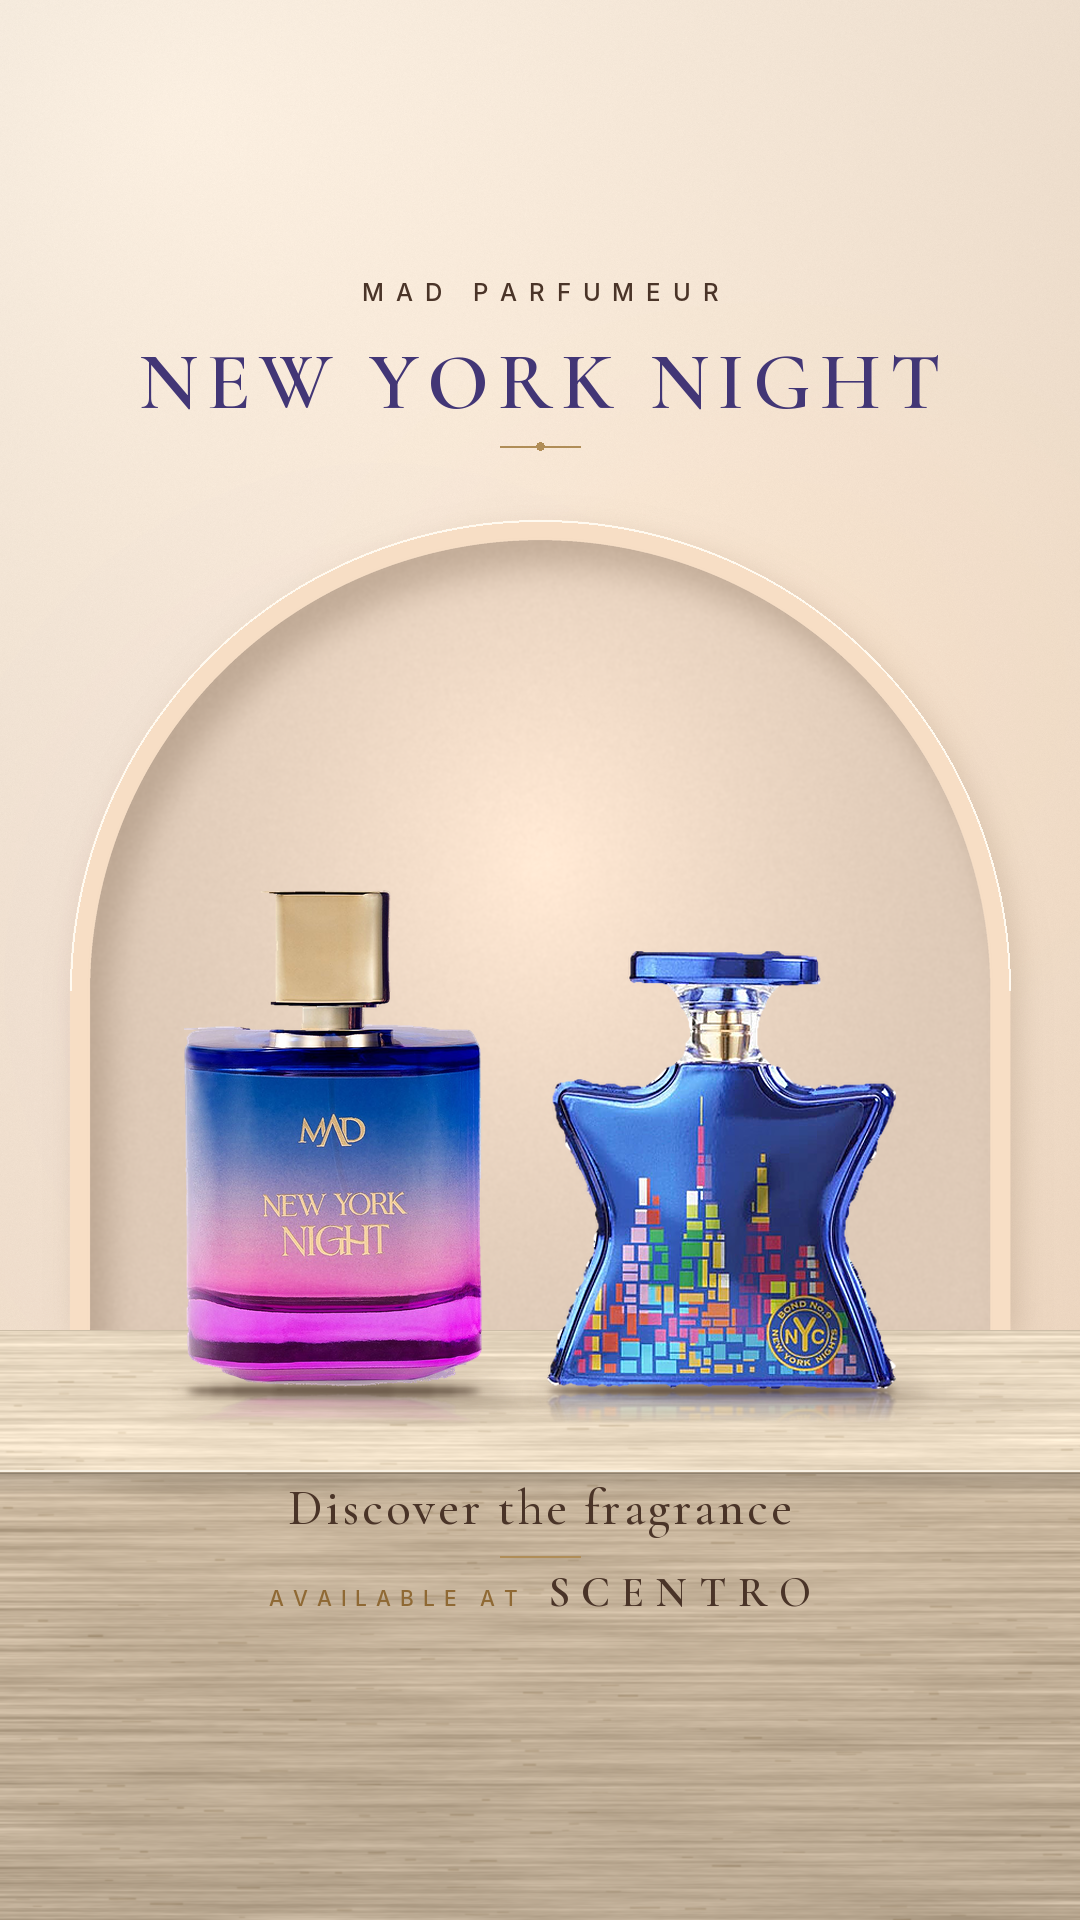
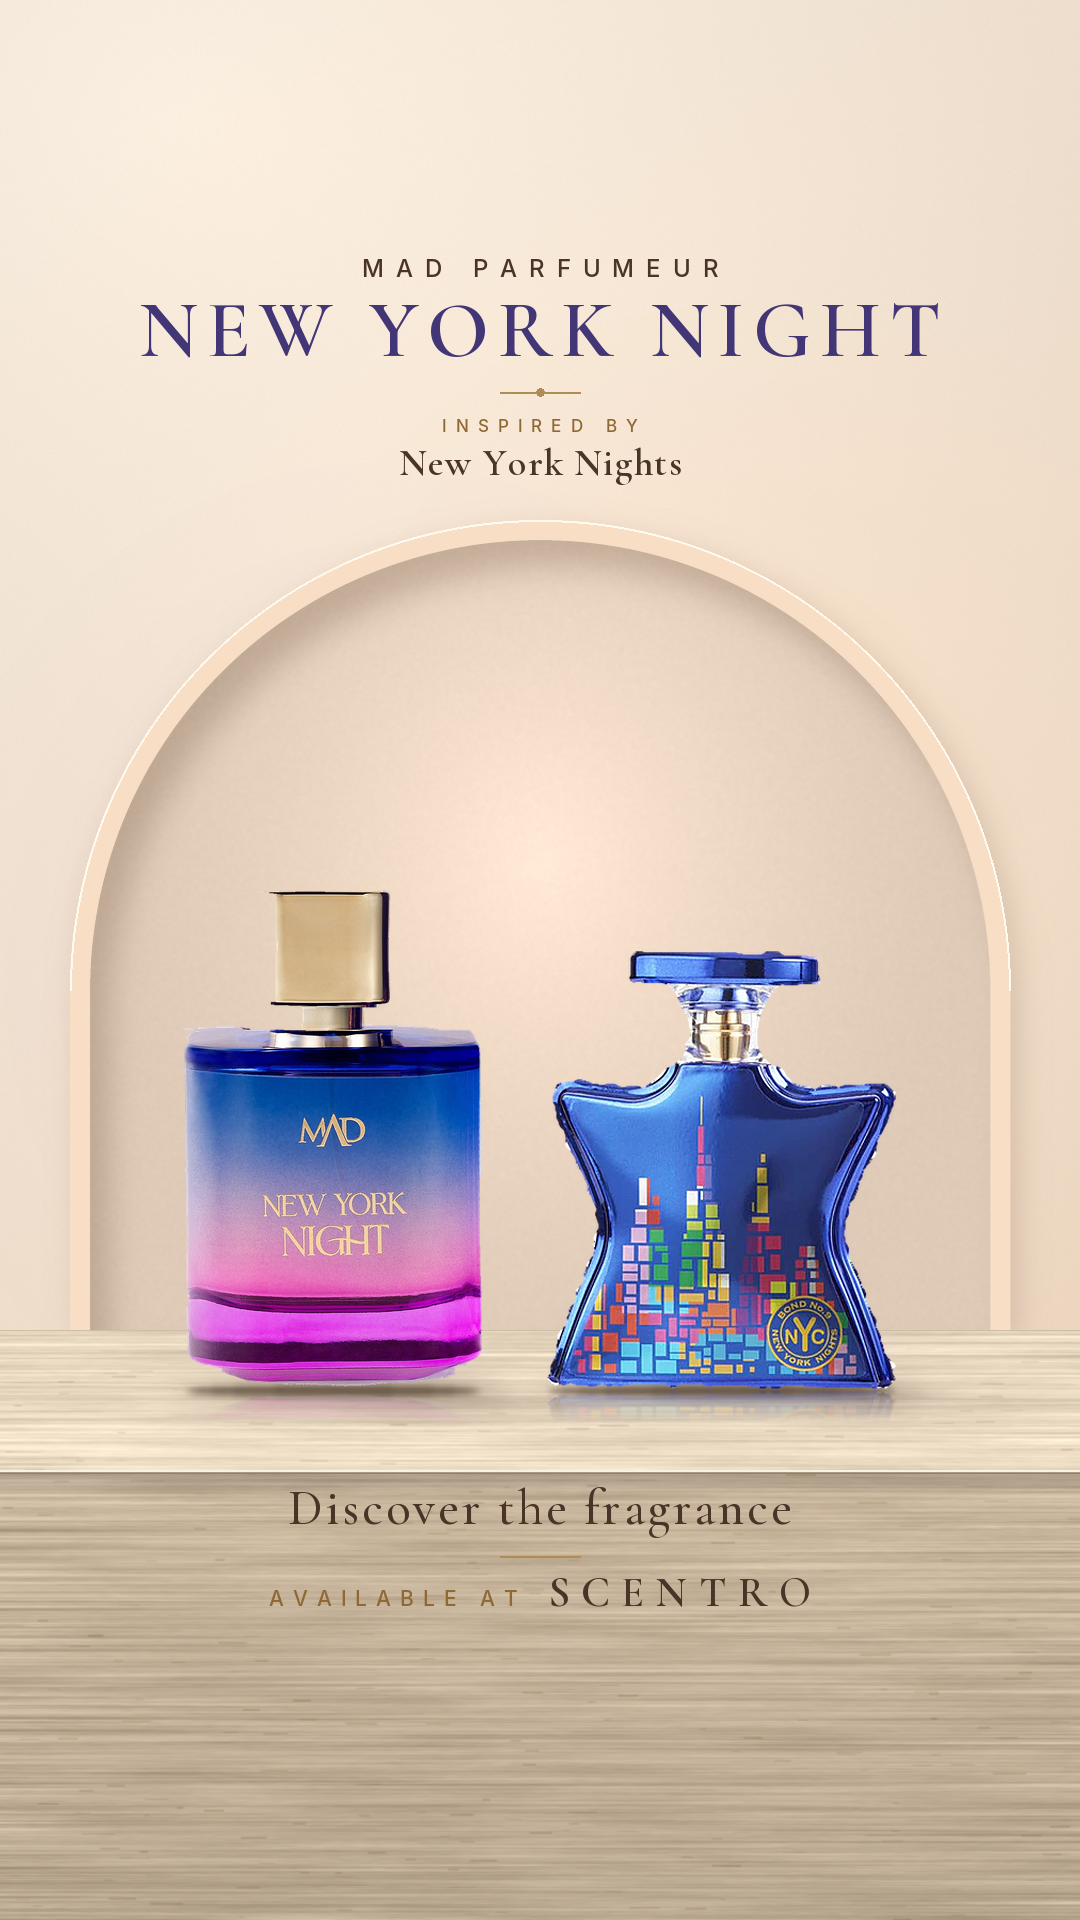
Stories: add 'INSPIRED BY' + original fragrance name (New York Nights / Rouge Malachite), no house names
Claude-Session: https://claude.ai/code/session_01UApyk7Kdwc7MEVpfJtnJsr

Changed region(s): [[0.3361, 0.125, 0.8556, 0.25], [0.1222, 0.1562, 0.3056, 0.2188]]

diff --git a/scentro/stories/build_stories.py b/scentro/stories/build_stories.py
@@ -212,7 +212,7 @@ def prep_nyn_bottle():
     Image.fromarray(bt).save('/tmp/_nyn_bottle.png'); return '/tmp/_nyn_bottle.png'
 
 
-def duo_story(label, mad, mad_h, orig, orig_h, pal, title, title_max, subtitle=None, tagline='Discover the fragrance'):
+def duo_story(label, mad, mad_h, orig, orig_h, pal, title, title_max, inspired, subtitle=None, tagline='Discover the fragrance'):
     canvas(arch_top=520, arch_r=470, surf_top=1330, surf_front=1470, base_y=1390)
     s = dict(bg_a=pal['bg_a'], bg_b=pal['bg_b'], niche_rgb=pal['niche'], stone=pal['stone'])
     img = B.background(s)
@@ -224,28 +224,33 @@ def duo_story(label, mad, mad_h, orig, orig_h, pal, title, title_max, subtitle=N
     left = 540 - (b1.width + gap + b2.width) / 2
     B.stage_bottle(img, b1, left + b1.width / 2, B.BASE_Y); B.stage_bottle(img, b2, left + b1.width + gap + b2.width / 2, B.BASE_Y)
     d = ImageDraw.Draw(img); brown, gold = (74, 52, 40), (176, 141, 87)
-    tracked_in(d, 540, 292, 'MAD PARFUMEUR', B.font(INTER_M, 24), brown, 12)
-    tf, size = B.fit_width(d, title, CORM, 'SemiBold', 104, title_max, track_ratio=.11)
-    tracked_in(d, 540, 382, title, tf, pal['title'], size * .11)
-    d.line((500, 446, 580, 446), fill=gold, width=2); d.ellipse((536, 442, 544, 450), fill=gold)
-    if subtitle: tracked_in(d, 540, 482, subtitle, B.font(INTER_M, 22), (143, 105, 52), 11)
+    tracked_in(d, 540, 268, 'MAD PARFUMEUR', B.font(INTER_M, 24), brown, 12)
+    tf, size = B.fit_width(d, title, CORM, 'SemiBold', 92, title_max, track_ratio=.11)
+    tracked_in(d, 540, 330, title, tf, pal['title'], size * .11)
+    y = 392
+    if subtitle:
+        tracked_in(d, 540, y, subtitle, B.font(INTER_M, 21), (143, 105, 52), 11); y += 28
+    d.line((500, y, 580, y), fill=gold, width=2); d.ellipse((536, y - 4, 544, y + 4), fill=gold); y += 34
+    tracked_in(d, 540, y, 'INSPIRED BY', B.font(INTER_M, 17), (143, 105, 52), 9)               # same treatment as the earlier collections
+    nf, _ = B.fit_width(d, inspired, CORM, 'SemiBold', 38, 800, track_px=1.5)
+    tracked_in(d, 540, y + 36, inspired, nf, brown, 1.5)
     tracked_in(d, 540, 1508, tagline, B.font(CORM, 50, 'Medium'), brown, 3)
     d.line((500, 1556, 580, 1556), fill=gold, width=2)
     pair_line(d, 540, 1606, 'AVAILABLE AT', B.font(INTER_M, 21), (143, 105, 52), 9, 'SCENTRO', B.font(CORM, 42, 'SemiBold'), brown, 12)
-    check_safe(label, {'title block': (270, 500), 'bottom block': (1480, 1620)})
+    check_safe(label, {'title block': (255, 520), 'bottom block': (1480, 1620)})
     return img
 
 
 def story_nyn_v2():
     pal = dict(bg_a=(251, 240, 226), bg_b=(241, 217, 194), niche=(240, 218, 198), stone=(4, 0, -4), title=(66, 54, 118),
                glows=[(380, 980, 560, 620, (176, 150, 222), 0.14), (760, 700, 600, 500, (255, 214, 176), 0.20)])
-    return duo_story('nyn_v2', prep_nyn_bottle(), 500, A + 'orig_bond9_nyn_r.png', 440, pal, 'NEW YORK NIGHT', 820)
+    return duo_story('nyn_v2', prep_nyn_bottle(), 500, A + 'orig_bond9_nyn_r.png', 440, pal, 'NEW YORK NIGHT', 820, 'New York Nights')
 
 
 def story_gs_v2():
     pal = dict(bg_a=(249, 243, 229), bg_b=(237, 223, 197), niche=(233, 216, 186), stone=(3, 1, -5), title=(124, 90, 38),
                glows=[(420, 960, 600, 640, (255, 222, 150), 0.18), (780, 720, 560, 480, (255, 236, 200), 0.18)])
-    return duo_story('gs_v2', A + 'mad_gs_bottle_c.png', 565, A + 'orig_rouge_malachite_r.png', 520, pal, 'GOLDEN SOUL', 820, subtitle='EXTRAIT DE PARFUM')
+    return duo_story('gs_v2', A + 'mad_gs_bottle_c.png', 565, A + 'orig_rouge_malachite_r.png', 520, pal, 'GOLDEN SOUL', 820, 'Rouge Malachite', subtitle='EXTRAIT DE PARFUM')
 
 
 JOBS = {'nyn': (story_nyn_v2, 'stories/output/scentro_new_york_night_story.png'),
